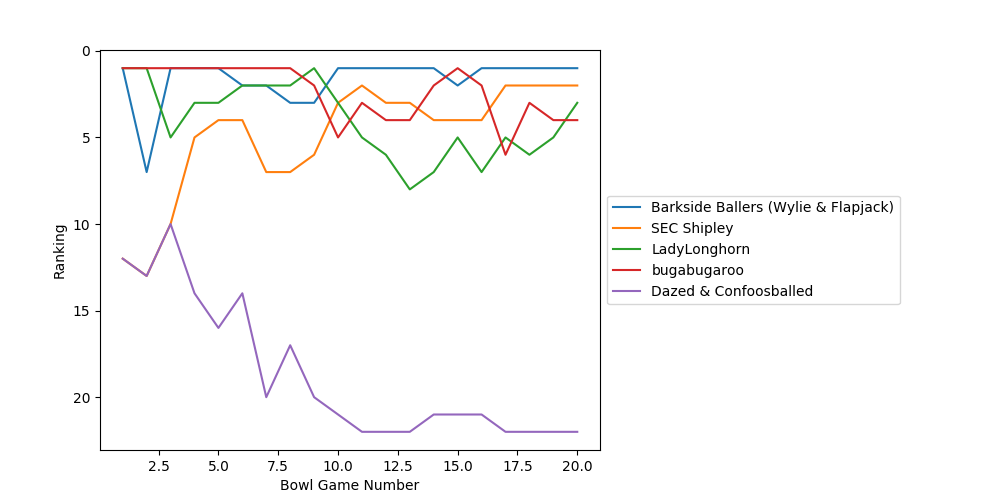
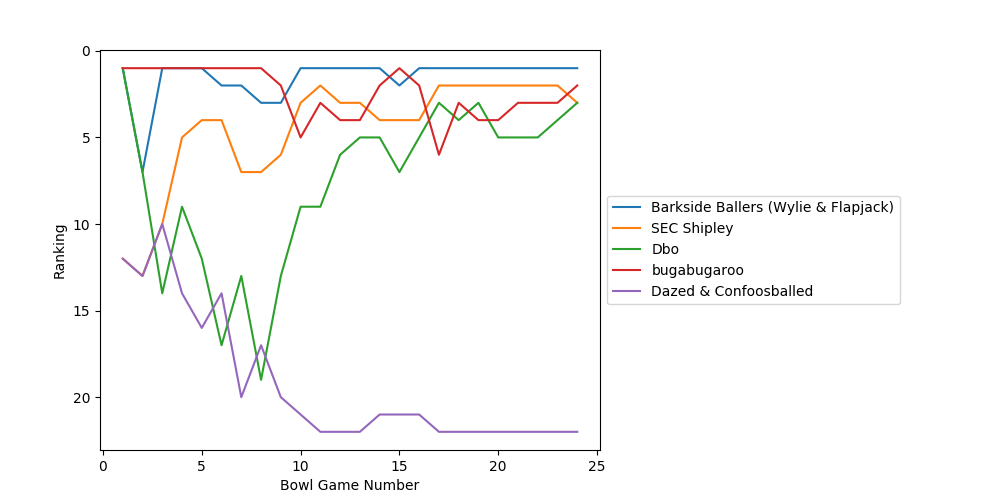
12-28 update highlighted

diff --git a/bowl_pool/2023-2024/results.html b/bowl_pool/2023-2024/results.html
@@ -984,33 +984,145 @@ ul.auto-toc {
 <td>1.0</td>
 <td>1.0</td>
 </tr>
+<tr><td>21</td>
+<td>Military Bowl</td>
+<td>Virginia Tech</td>
+<td>Tulane</td>
+<td>7.5</td>
+<td>1.0</td>
+<td>0.0</td>
+<td>0.0</td>
+<td>0.0</td>
+<td>0.0</td>
+<td>0.0</td>
+<td>1.0</td>
+<td>1.0</td>
+<td>1.0</td>
+<td>0.0</td>
+<td>0.0</td>
+<td>1.0</td>
+<td>1.0</td>
+<td>0.0</td>
+<td>1.0</td>
+<td>1.0</td>
+<td>0.0</td>
+<td>0.0</td>
+<td>1.0</td>
+<td>0.0</td>
+<td>0.0</td>
+<td>0.0</td>
+</tr>
+<tr><td>22</td>
+<td>Duke's Mayo Bowl</td>
+<td>West Virginia</td>
+<td>North Carolina</td>
+<td>3.5</td>
+<td>0.0</td>
+<td>0.0</td>
+<td>0.0</td>
+<td>1.0</td>
+<td>1.0</td>
+<td>1.0</td>
+<td>1.0</td>
+<td>0.0</td>
+<td>0.0</td>
+<td>0.0</td>
+<td>1.0</td>
+<td>0.0</td>
+<td>1.0</td>
+<td>0.0</td>
+<td>0.0</td>
+<td>0.0</td>
+<td>0.0</td>
+<td>0.0</td>
+<td>1.0</td>
+<td>0.0</td>
+<td>0.0</td>
+<td>0.0</td>
+</tr>
+<tr><td>23</td>
+<td>Holiday Bowl</td>
+<td>Louisville</td>
+<td>USC</td>
+<td>7.5</td>
+<td>0.0</td>
+<td>0.0</td>
+<td>0.0</td>
+<td>2.0</td>
+<td>0.0</td>
+<td>0.0</td>
+<td>0.0</td>
+<td>2.0</td>
+<td>0.0</td>
+<td>2.0</td>
+<td>2.0</td>
+<td>0.0</td>
+<td>0.0</td>
+<td>0.0</td>
+<td>2.0</td>
+<td>2.0</td>
+<td>2.0</td>
+<td>2.0</td>
+<td>0.0</td>
+<td>2.0</td>
+<td>0.0</td>
+<td>0.0</td>
+</tr>
+<tr><td>24</td>
+<td>TexasBowl</td>
+<td>Texas A&amp;M</td>
+<td>Oklahoma State</td>
+<td>3.5</td>
+<td>1.25</td>
+<td>0.0</td>
+<td>1.25</td>
+<td>1.25</td>
+<td>1.25</td>
+<td>1.25</td>
+<td>1.25</td>
+<td>1.25</td>
+<td>0.0</td>
+<td>1.25</td>
+<td>1.25</td>
+<td>1.25</td>
+<td>1.25</td>
+<td>0.0</td>
+<td>0.0</td>
+<td>1.25</td>
+<td>0.0</td>
+<td>1.25</td>
+<td>0.0</td>
+<td>0.0</td>
+<td>0.0</td>
+<td>1.25</td>
+</tr>
 <tr><td><strong>Totals</strong></td>
 <td>&nbsp;</td>
 <td>&nbsp;</td>
 <td>&nbsp;</td>
 <td>&nbsp;</td>
-<td><strong>14.0</strong></td>
+<td><strong>16.25</strong></td>
 <td><strong>12.25</strong></td>
-<td><strong>11.5</strong></td>
-<td><strong>20.5</strong></td>
-<td><strong>11.75</strong></td>
-<td><strong>9.25</strong></td>
-<td><strong>17.0</strong></td>
-<td><strong>11.0</strong></td>
-<td><strong>6.0</strong></td>
-<td><strong>16.5</strong></td>
-<td><strong>9.75</strong></td>
-<td><strong>12.0</strong></td>
-<td><strong>13.5</strong></td>
-<td><strong>17.25</strong></td>
+<td><strong>12.75</strong></td>
+<td><strong>24.75</strong></td>
 <td><strong>14.0</strong></td>
-<td><strong>10.75</strong></td>
-<td><strong>13.5</strong></td>
-<td><strong>14.5</strong></td>
+<td><strong>11.5</strong></td>
+<td><strong>20.25</strong></td>
+<td><strong>15.25</strong></td>
+<td><strong>7.0</strong></td>
+<td><strong>19.75</strong></td>
+<td><strong>14.0</strong></td>
+<td><strong>14.25</strong></td>
+<td><strong>16.75</strong></td>
+<td><strong>17.25</strong></td>
+<td><strong>17.0</strong></td>
+<td><strong>15.0</strong></td>
+<td><strong>15.5</strong></td>
 <td><strong>17.75</strong></td>
-<td><strong>11.0</strong></td>
+<td><strong>19.75</strong></td>
+<td><strong>13.0</strong></td>
 <td><strong>16.0</strong></td>
-<td><strong>10.0</strong></td>
+<td><strong>11.25</strong></td>
 </tr>
 </tbody>
 </table>

diff --git a/bowl_pool/2023-2024/rankings.html b/bowl_pool/2023-2024/rankings.html
@@ -364,32 +364,32 @@ ul.auto-toc {
 
 
 <div class="line-block">
-<div class="line"><em>Last updated:  2023-12-27 14:04:41</em></div>
-<div class="line"><em>Last bowl scored:  Guaranteed Rate Bowl (Kansas vs. UNLV)</em></div>
+<div class="line"><em>Last updated:  2023-12-28 09:14:36</em></div>
+<div class="line"><em>Last bowl scored:  TexasBowl (Texas A&amp;M vs. Oklahoma State)</em></div>
 </div>
 <div class="line-block">
-<div class="line">1. <strong>Barkside Ballers (Wylie &amp; Flapjack) 20.5</strong></div>
-<div class="line">2. <strong>SEC Shipley 17.75</strong></div>
-<div class="line">3. <strong>LadyLonghorn 17.25</strong></div>
-<div class="line">4. <strong>bugabugaroo 17.0</strong></div>
-<div class="line">5. Dbo 16.5</div>
-<div class="line">6. The New Guy 16.0</div>
-<div class="line">7. Sascha Picks Dogs 14.5</div>
-<div class="line">8. #MamaBear 14.0</div>
-<div class="line">8. MamaDAWG 14.0</div>
-<div class="line">10. Kylo Bad Dog 13.5</div>
-<div class="line">10. Rando Cal Rece Ian 13.5</div>
-<div class="line">12. Aggie Austin 12.25</div>
-<div class="line">13. GlamKam 12.0</div>
-<div class="line">14. Bear-in-Law 11.75</div>
-<div class="line">15. Badgers Rock! 11.5</div>
-<div class="line">16. COOKIES 11.0</div>
-<div class="line">16. Sir Fluffy McFlufferson 11.0</div>
-<div class="line">18. Manda Panda 10.75</div>
-<div class="line">19. WD50 10.0</div>
-<div class="line">20. em&amp;em 9.75</div>
-<div class="line">21. Big 12 Bibby 9.25</div>
-<div class="line">22. <strong>Dazed &amp; Confoosballed 6.0</strong></div>
+<div class="line">1. <strong>Barkside Ballers (Wylie &amp; Flapjack) 24.75</strong></div>
+<div class="line">2. <strong>bugabugaroo 20.25</strong></div>
+<div class="line">3. <strong>Dbo 19.75</strong></div>
+<div class="line">3. <strong>SEC Shipley 19.75</strong></div>
+<div class="line">5. Sascha Picks Dogs 17.75</div>
+<div class="line">6. LadyLonghorn 17.25</div>
+<div class="line">7. MamaDAWG 17.0</div>
+<div class="line">8. Kylo Bad Dog 16.75</div>
+<div class="line">9. #MamaBear 16.25</div>
+<div class="line">10. The New Guy 16.0</div>
+<div class="line">11. Rando Cal Rece Ian 15.5</div>
+<div class="line">12. COOKIES 15.25</div>
+<div class="line">13. Manda Panda 15.0</div>
+<div class="line">14. GlamKam 14.25</div>
+<div class="line">15. Bear-in-Law 14.0</div>
+<div class="line">15. em&amp;em 14.0</div>
+<div class="line">17. Sir Fluffy McFlufferson 13.0</div>
+<div class="line">18. Badgers Rock! 12.75</div>
+<div class="line">19. Aggie Austin 12.25</div>
+<div class="line">20. Big 12 Bibby 11.5</div>
+<div class="line">21. WD50 11.25</div>
+<div class="line">22. <strong>Dazed &amp; Confoosballed 7.0</strong></div>
 </div>
 </div>
 </body>

diff --git a/bowl_pool/2023-2024/index.html b/bowl_pool/2023-2024/index.html
@@ -365,8 +365,8 @@ ul.auto-toc {
 
 <p><strong>2023-2024 Bowl Pool</strong></p>
 <div class="line-block">
-<div class="line"><em>Last updated:  2023-12-27 14:04:42</em></div>
-<div class="line"><em>Last bowl scored:  Guaranteed Rate Bowl (Kansas vs. UNLV)</em></div>
+<div class="line"><em>Last updated:  2023-12-28 09:14:37</em></div>
+<div class="line"><em>Last bowl scored:  TexasBowl (Texas A&amp;M vs. Oklahoma State)</em></div>
 </div>
 <ul class="simple">
 <li><a class="reference external" href="rankings.html">Rankings</a> (<a class="reference external" href="rankings.csv">csv</a>)</li>
